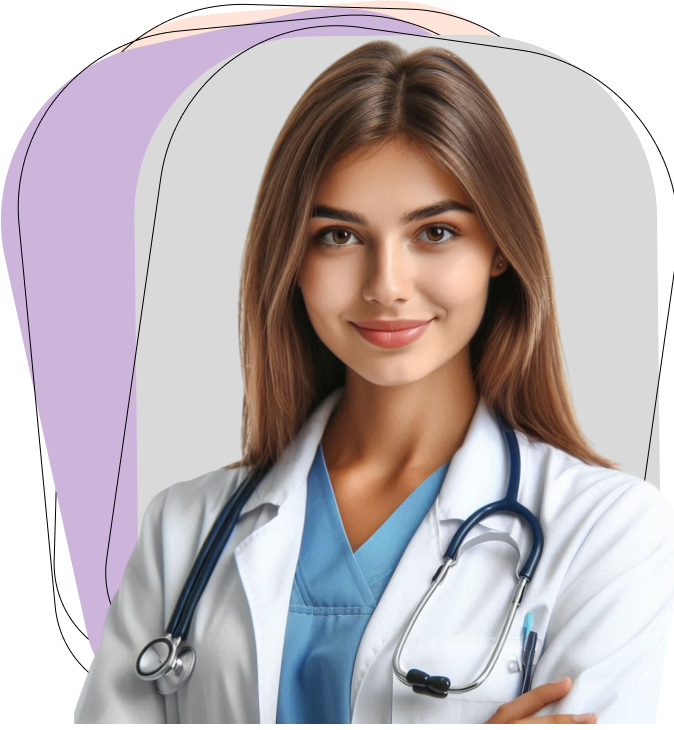
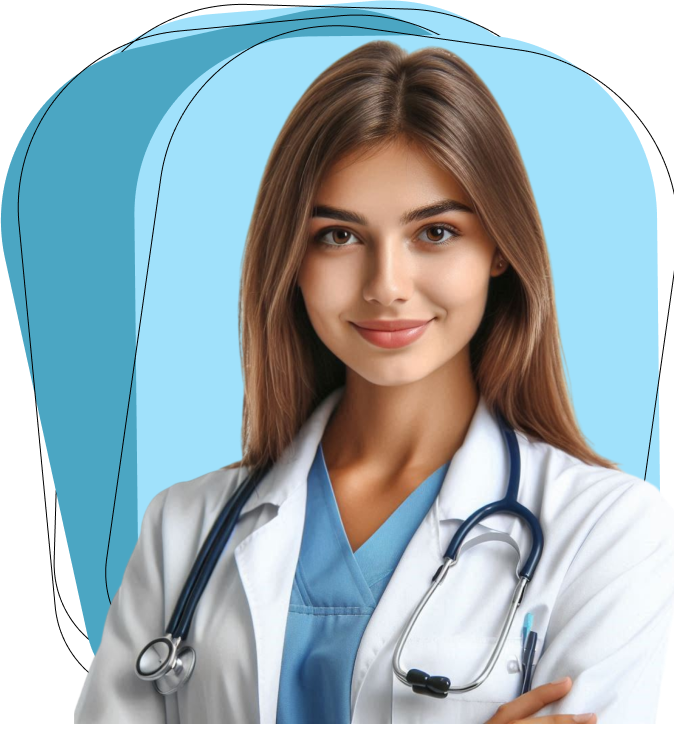
hhh

diff --git a/src/components/navbar.jsx b/src/components/navbar.jsx
@@ -1,14 +1,19 @@
 import React, { useState } from 'react';
+import { Link, useLocation } from 'react-router-dom'; // Import Link and useLocation
 
 const Navbar = () => {
     const [isOpen, setIsOpen] = useState(false);
+    const location = useLocation(); // Get the current location (route)
 
     const toggleMenu = () => {
         setIsOpen(!isOpen);
     };
 
+    // Check if the current path matches the link's path
+    const isActive = (path) => location.pathname === path;
+
     return (
-        <nav className="bg-white text-black shadow-md  top-0 left-0 w-full">
+        <nav className="bg-white text-black shadow-md fixed z-40 top-0 left-0 w-full">
             <div className="container mx-auto px-4 py-5 flex items-center justify-between">
                 {/* Logo */}
                 <div className="text-xl font-bold text-black">
@@ -17,11 +22,36 @@ const Navbar = () => {
 
                 {/* Desktop Menu */}
                 <div className="hidden md:flex space-x-6 text-black">
-                    <a href="#" className="text-[15px] font-bold leading-[21.94px] text-left">Home</a>
-                    <a href="#" className="text-[15px] font-bold leading-[21.94px] text-left">Book an Appointment</a>
-                    <a href="#" className="text-[15px] font-bold leading-[21.94px] text-left">Store</a>
-                    <a href="#" className="text-[15px] font-bold leading-[21.94px] text-left">Courses</a>
-                    <a href="#" className="text-[15px] font-bold leading-[21.94px] text-left">About Us</a>
+                    <Link
+                        to="/"
+                        className={`text-[15px] font-bold leading-[21.94px] text-left ${isActive('/') ? 'border-b-2 border-blue-500' : ''}`}
+                    >
+                        Home
+                    </Link>
+                    <Link
+                        to="/"
+                        className={`text-[15px] font-bold leading-[21.94px] text-left ${isActive('/appointment') ? 'border-b-2 border-blue-500' : ''}`}
+                    >
+                        Book an Appointment
+                    </Link>
+                    <Link
+                        to="/"
+                        className={`text-[15px] font-bold leading-[21.94px] text-left ${isActive('/store') ? 'border-b-2 border-blue-500' : ''}`}
+                    >
+                        Store
+                    </Link>
+                    <Link
+                        to="/"
+                        className={`text-[15px] font-bold leading-[21.94px] text-left ${isActive('/courses') ? 'border-b-2 border-blue-500' : ''}`}
+                    >
+                        Courses
+                    </Link>
+                    <Link
+                        to="/"
+                        className={`text-[15px] font-bold leading-[21.94px] text-left ${isActive('/about') ? 'border-b-2 border-blue-500' : ''}`}
+                    >
+                        About Us
+                    </Link>
                 </div>
 
                 {/* Mobile Menu Button */}
@@ -35,11 +65,36 @@ const Navbar = () => {
             {/* Mobile Menu */}
             <div className={`md:hidden ${isOpen ? 'block' : 'hidden'} bg-blue-700 text-white`}>
                 <div className="px-2 py-3 space-y-1">
-                    <a href="#" className="block px-3 py-2 text-lg hover:bg-blue-600">Home</a>
-                    <a href="#" className="block px-3 py-2 text-lg hover:bg-blue-600">Book an Appointment</a>
-                    <a href="#" className="block px-3 py-2 text-lg hover:bg-blue-600">Store</a>
-                    <a href="#" className="block px-3 py-2 text-lg hover:bg-blue-600">Courses</a>
-                    <a href="#" className="block px-3 py-2 text-lg hover:bg-blue-600">About Us</a>
+                    <Link
+                        to="/"
+                        className={`block px-3 py-2 text-lg hover:bg-blue-600 ${isActive('/') ? 'bg-blue-600' : ''}`}
+                    >
+                        Home
+                    </Link>
+                    <Link
+                        to="/appointment"
+                        className={`block px-3 py-2 text-lg hover:bg-blue-600 ${isActive('/appointment') ? 'bg-blue-600' : ''}`}
+                    >
+                        Book an Appointment
+                    </Link>
+                    <Link
+                        to="/store"
+                        className={`block px-3 py-2 text-lg hover:bg-blue-600 ${isActive('/store') ? 'bg-blue-600' : ''}`}
+                    >
+                        Store
+                    </Link>
+                    <Link
+                        to="/courses"
+                        className={`block px-3 py-2 text-lg hover:bg-blue-600 ${isActive('/courses') ? 'bg-blue-600' : ''}`}
+                    >
+                        Courses
+                    </Link>
+                    <Link
+                        to="/about"
+                        className={`block px-3 py-2 text-lg hover:bg-blue-600 ${isActive('/about') ? 'bg-blue-600' : ''}`}
+                    >
+                        About Us
+                    </Link>
                 </div>
             </div>
         </nav>

diff --git a/src/components/home/sectionfour.jsx b/src/components/home/sectionfour.jsx
@@ -9,7 +9,7 @@ const Hsec4 = () => {
                 <p className="text-center" >At our clinic, we offer a comprehensive range of services designed to improve both your communication abilities and mental well-being. 
                 Our dedicated team is here to support your unique journey to clarity and balance.</p>
                 <center>
-                <div className="w-[90%]  px-3 md:px-10 py-5 pb-10 bg-custom-gradient h-auto justify-center  mt-16 rounded-3xl flex-row" >
+                <div className="w-[90%]  px-3 md:px-10 py-5 pb-10 bg-custom-gradient2 h-auto justify-center  mt-16 rounded-3xl flex-row" >
                     <div>
                         <h1 className="font-bold md:font-extrabold text-white text-[18px] sm:text-[36px] mb-5 mx-auto text-center">PSYCHOTHERAPY</h1>
                         <div className="flex flex-wrap justify-center" >

diff --git a/src/components/home/sectionone.jsx b/src/components/home/sectionone.jsx
@@ -7,7 +7,7 @@ import grid from '../../assets/grid.png'
 function Hsec1(){
 
 return (
-    <section  className='flex flex-col md:flex-row items-center justify-between  w-screen   px-12 mx-auto bg-[#d4f5ff] overflow-hidden relative' >
+    <section  className='flex flex-col md:flex-row items-center mt-[68px] justify-between  w-screen   px-12 mx-auto bg-[#d4f5ff] overflow-hidden relative' >
       <div className="mt-[150px] z-10 md:w-1/2 md:mt-0" >
 
      
@@ -25,7 +25,7 @@ return (
 
  
 
-        <button className='bg-custom-gradient  text-white px-4 py-2 rounded-3xl font-thin' >
+        <button className='bg-[#4BA6C3]  text-white px-4 py-2 rounded-3xl font-thin' >
         Book an Appointment NOW
         </button>
 

diff --git a/src/components/home/sectionsix.jsx b/src/components/home/sectionsix.jsx
@@ -69,13 +69,13 @@ const Hsec6 = () => {
         <div className="flex justify-center mt-8 space-x-4">
         <button
           onClick={handlePrev}
-          className="px-4 py-2 bg-custom-gradient text-white font-bold rounded-lg"
+          className="px-4 py-2 bg-[#4BA6C3] text-white font-bold rounded-lg"
         >
           Prev
         </button>
         <button
           onClick={handleNext}
-          className="px-4 py-2 bg-custom-gradient text-white font-bold rounded-lg"
+          className="px-4 py-2 bg-[#4BA6C3] text-white font-bold rounded-lg"
         >
           Next
         </button>

diff --git a/src/main.jsx b/src/main.jsx
@@ -3,11 +3,15 @@ import React from 'react';
 import ReactDOM from 'react-dom/client'; // Notice 'client' here for createRoot
 import './index.css';
 import App from './App';
+import { BrowserRouter } from 'react-router-dom'; // Import BrowserRouter
 
 // Use createRoot instead of ReactDOM.render
 const root = ReactDOM.createRoot(document.getElementById('root'));
 root.render(
   <React.StrictMode>
-    <App />
+    {/* Wrap the app in BrowserRouter */}
+    <BrowserRouter>
+      <App />
+    </BrowserRouter>
   </React.StrictMode>
 );

diff --git a/src/components/home/sectionthree.jsx b/src/components/home/sectionthree.jsx
@@ -15,7 +15,7 @@ const Hsec3 = () => {
                  qui officia deserunt mollit anim id est laborum.</p>
             </div>
             <div className='md:w-1/2 justify-center flex'>
-             <div className='  w-[320px] aspect-square  sm:w-[350px] sm:h-[350px] bg-white rounded-full border-[15px] border-[#9d96c9]' >
+             <div className='  w-[320px] aspect-square  sm:w-[350px] sm:h-[350px] bg-white rounded-full border-[15px] border-[#4BA6C3]' >
 
              </div>
             </div>

diff --git a/tailwind.config.js b/tailwind.config.js
@@ -11,7 +11,8 @@ module.exports = {
       },
       backgroundImage: {
         'custom-gradient': 'linear-gradient(to right, #625B92 0%, #7169A7 54%, #988DDE 100%)',
-        'custom-gradient1': 'linear-gradient(to left, #EAEAFF 0%, #D3D2FF 100%)', // fixed spelling
+        'custom-gradient1': 'linear-gradient(to left, #EAEAFF 0%, #D3D2FF 100%)',
+        'custom-gradient2': 'linear-gradient(to left, #7AD4F4 0%, #4BA3C3 100%)', // fixed spelling
       },
     },
   },

diff --git a/src/components/footer.jsx b/src/components/footer.jsx
@@ -6,7 +6,7 @@ import { FaWhatsapp } from "react-icons/fa";
 
 const footer = () => {
     return (  
-        <div className="relative b-0 w-screen bg-custom-gradient  items-center  justify-center  flex-row " >
+        <div className="relative b-0 w-screen bg-[#4BA6C3]  items-center  justify-center  flex-row " >
             <div className="text-xl w-full flex-grow text-center tetx-bold pt-5 text-white">
                     Logo
                 </div>
